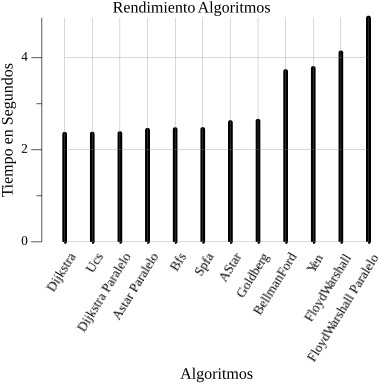
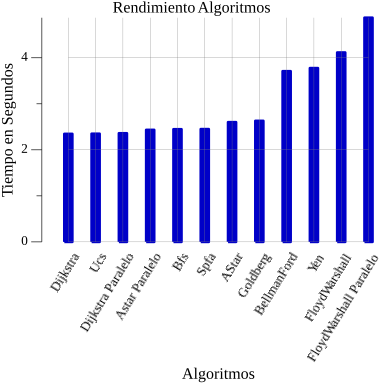
final

diff --git a/herramientaGraficas/graficos.go b/herramientaGraficas/graficos.go
@@ -55,11 +55,14 @@ func Graficar(tam int) {
 	}
 
 	// Crear un gráfico de barras
-	bars, _ := plotter.NewBarChart(plotter.Values(dataValues(data)), 0.5)
+	// Calcular el ancho de las barras para que sean cuadradas
+	barWidth := vg.Length(6) // Ancho original de las barras
+	bars, _ := plotter.NewBarChart(plotter.Values(dataValues(data)), barWidth)
+	
 
-	bars.LineStyle.Width = vg.Length(3)
-	bars.Color = color.RGBA{R: 255, G: 0, B: 0, A: 255}
-
+	bars.LineStyle.Width = vg.Length(2)
+	bars.Color = color.RGBA{R: 0, G: 0, B: 200, A: 255}
+	bars.LineStyle.Color = bars.Color
 	// Agregar el gráfico de barras al gráfico
 	p.Add(bars)
 
